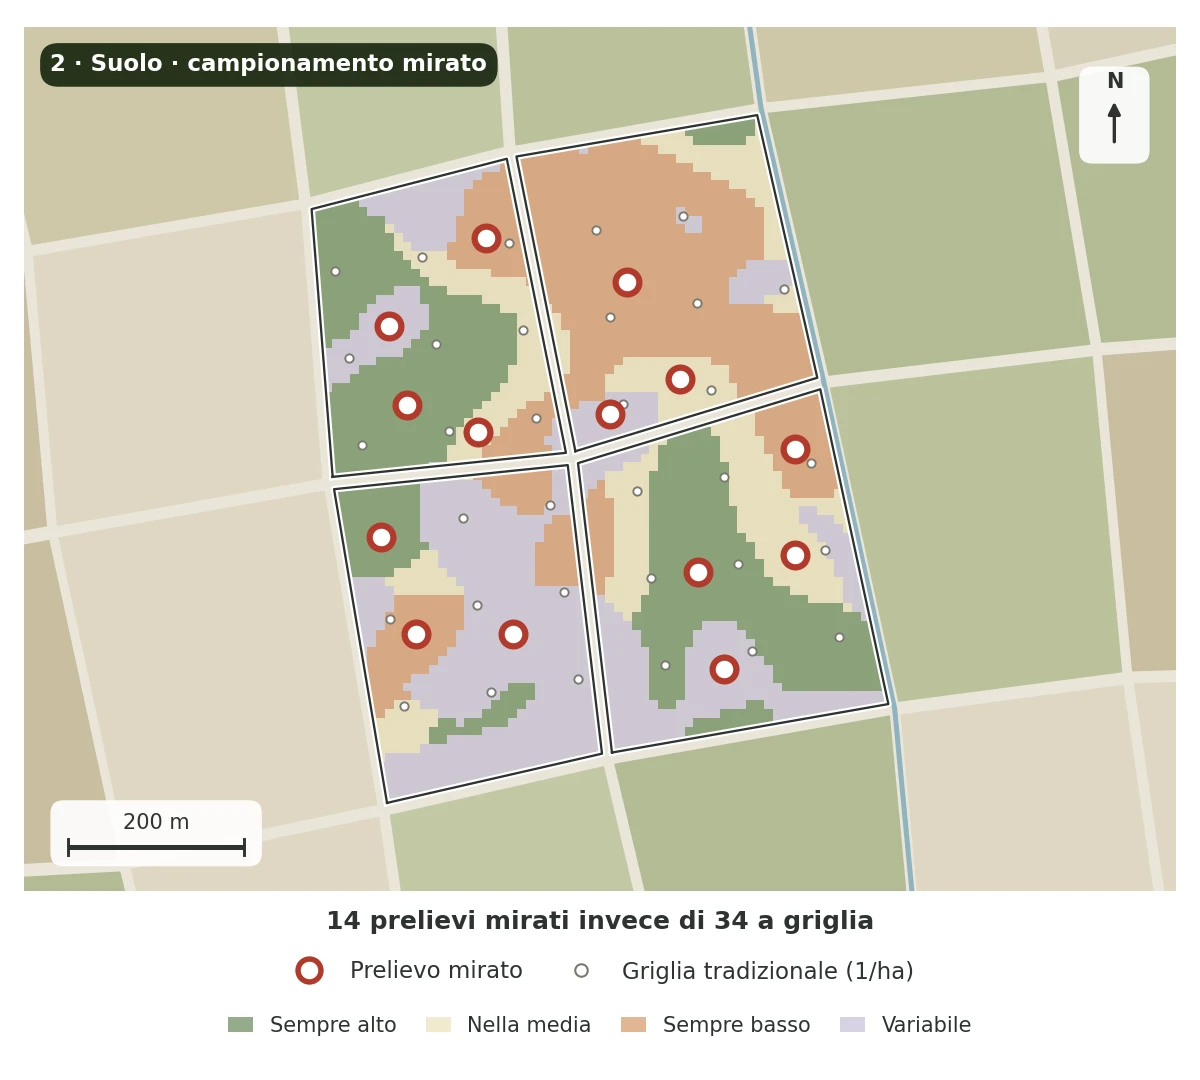
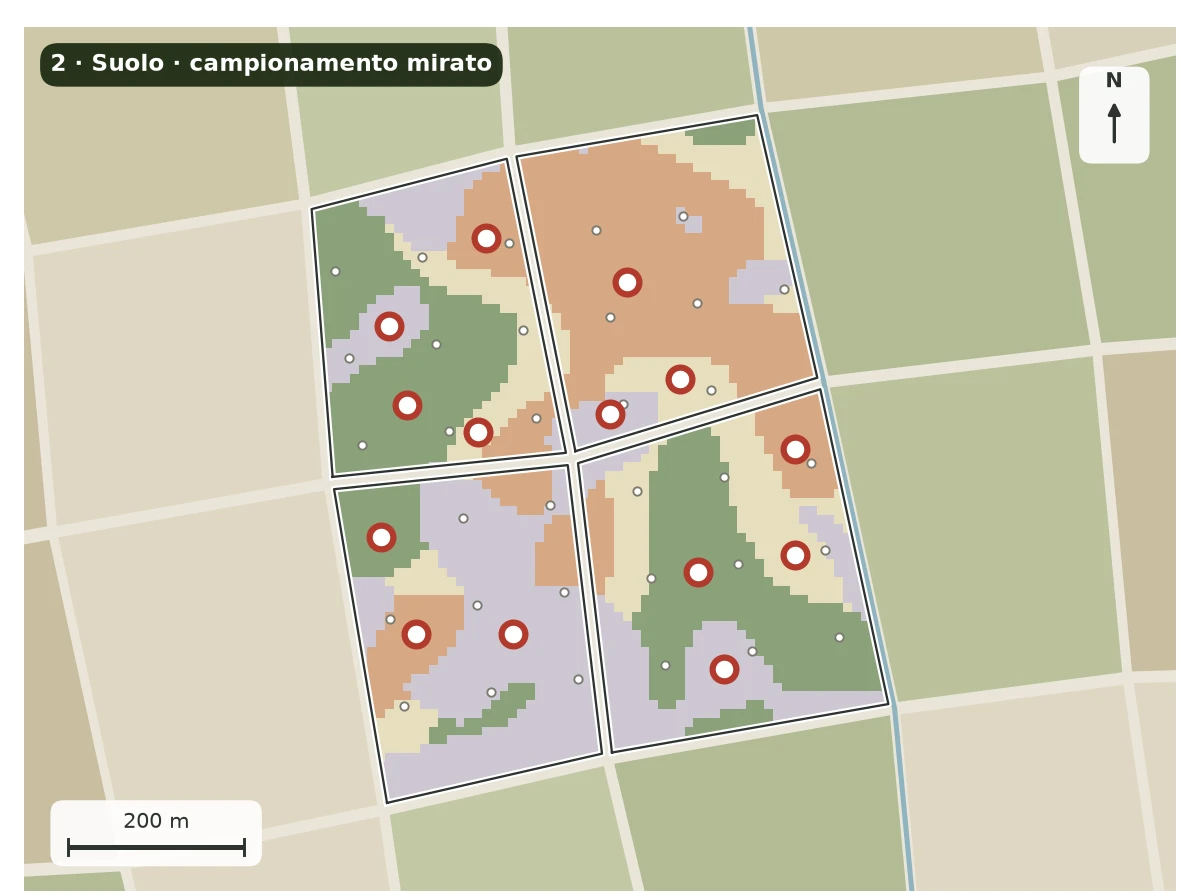
Scorpora le legende delle mappe dalle immagini in testo interattivo
Le mappe generate da scripts/synthetic_maps.py contenevano legenda,
didascalia e colorbar come pixel disegnati nella parte bassa
dell'immagine. Ora lo script ritaglia quella fascia (LEGEND_BAND) e
salva solo la mappa vera e propria, invariata pixel per pixel
(colori, contorni, badge, scala, freccia nord).

I contenuti delle legende sono stati spostati in MapCarousel.tsx come
dati per ogni passo, con un componente Legend che li renderizza come
chip HTML interattivi (hover/tap) accanto all'immagine, invece che
come testo non selezionabile dentro il PNG.

Claude-Session: https://claude.ai/code/session_01APuUi5GTqQEEWz5scawZC7

diff --git a/src/components/MapCarousel.tsx b/src/components/MapCarousel.tsx
@@ -2,7 +2,19 @@ import React, { useState } from 'react';
 import { motion, AnimatePresence } from 'motion/react';
 import { ChevronLeft, ChevronRight, Satellite, TestTube, Activity, Navigation, Droplets } from 'lucide-react';
 
+// Colori delle 4 classi di variabilità storica, condivisi da più mappe/legende
+// (stessi valori usati in scripts/synthetic_maps.py, variabile stab_cols).
+const STABILITY_SWATCHES = [
+  { color: '#3F6B2E', label: 'Sempre alto' },
+  { color: '#E6D9A8', label: 'Nella media' },
+  { color: '#C9793F', label: 'Sempre basso' },
+  { color: '#B7AFCF', label: 'Variabile' },
+];
+
 // Mappe di esempio generate da scripts/synthetic_maps.py (campi immaginari, nessun dato reale).
+// Le immagini contengono solo la mappa (colori, contorni, badge, scala, freccia nord): la legenda,
+// che prima era testo disegnato dentro l'immagine, ora vive qui come dati e viene renderizzata
+// come HTML interattivo (vedi componente Legend più sotto).
 const STEPS = [
   {
     src: '/mappe/mappa-1-storico.webp',
@@ -11,6 +23,7 @@ const STEPS = [
     short: 'Storico',
     title: 'Variabilità storica',
     desc: 'Più anni di immagini satellitari rivelano le zone dove la coltura cresce sempre bene, sempre meno, o cambia di anno in anno.',
+    legend: { kind: 'swatches' as const, items: STABILITY_SWATCHES },
   },
   {
     src: '/mappe/mappa-2-campionamento.webp',
@@ -19,6 +32,15 @@ const STEPS = [
     short: 'Campionamento',
     title: 'Campionamento mirato del suolo',
     desc: 'Le zone guidano i prelievi: un campione nel punto più rappresentativo di ogni zona, invece di una griglia fitta. Meno analisi, informazioni più utili.',
+    legend: {
+      kind: 'sampling' as const,
+      caption: '14 prelievi mirati invece di 34 a griglia',
+      markers: [
+        { style: 'ring-thick' as const, color: '#B23A2B', label: 'Prelievo mirato' },
+        { style: 'ring-thin' as const, color: '#7A7A70', label: 'Griglia tradizionale (1/ha)' },
+      ],
+      swatches: STABILITY_SWATCHES,
+    },
   },
   {
     src: '/mappe/mappa-3-stagione.webp',
@@ -27,6 +49,15 @@ const STEPS = [
     short: 'Stagione',
     title: 'Monitoraggio in stagione',
     desc: 'Durante la stagione il satellite confronta il vigore attuale con lo storico e segnala le aree che si comportano in modo anomalo.',
+    legend: {
+      kind: 'scale' as const,
+      title: 'Vigore attuale (NDVI) e aree anomale',
+      stops: ['#B98E5A', '#E6D39A', '#A9C77E', '#4E8A3E', '#15401F'],
+      low: 'Basso',
+      high: 'Alto',
+      ticks: ['0.65', '0.70', '0.75', '0.80'],
+      extra: [{ style: 'dashed-line' as const, color: '#B23A2B', label: 'Area da verificare' }],
+    },
   },
   {
     src: '/mappe/mappa-4-volo.webp',
@@ -35,6 +66,15 @@ const STEPS = [
     short: 'Volo',
     title: 'Volo mirato del drone',
     desc: 'Il drone sorvola solo le aree da verificare: meno tempo in campo e immagini dettagliate proprio dove servono.',
+    legend: {
+      kind: 'mixed' as const,
+      items: [
+        { style: 'patch' as const, color: '#B23A2B', fill: '#E7B7AE', label: 'Area da sorvolare' },
+        { style: 'line' as const, color: '#15240D', label: 'Passate di rilievo' },
+        { style: 'dashed-line' as const, color: '#15240D', label: 'Trasferimento' },
+        { style: 'marker-square' as const, color: '#15240D', label: 'Decollo' },
+      ],
+    },
   },
   {
     src: '/mappe/mappa-5-biostimolanti.webp',
@@ -43,8 +83,130 @@ const STEPS = [
     short: 'Biostimolanti',
     title: 'Distribuzione di biostimolanti a rateo variabile',
     desc: 'Dai dati del drone nasce la mappa di distribuzione dei biostimolanti: più prodotto dove la coltura soffre, meno dove sta già bene.',
+    legend: {
+      kind: 'swatches' as const,
+      items: [
+        { color: '#9DBB86', label: 'Dose −25%' },
+        { color: '#EFE3BF', label: 'Dose standard' },
+        { color: '#DE9A4C', label: 'Dose +25%' },
+        { color: '#A33A1F', label: 'Dose +50%' },
+      ],
+    },
   },
 ];
+
+/** Chip di legenda con un piccolo campione visivo (colore, linea, marker...) + etichetta. */
+const LegendChip: React.FC<{ swatch: React.ReactNode; label: string }> = ({ swatch, label }) => (
+  <motion.span
+    whileHover={{ scale: 1.06, y: -1 }}
+    whileTap={{ scale: 0.97 }}
+    className="inline-flex items-center gap-1.5 rounded-full border border-gray-200 bg-white px-2.5 py-1 text-xs text-gray-700 shadow-sm cursor-default"
+  >
+    {swatch}
+    {label}
+  </motion.span>
+);
+
+const ColorSwatch: React.FC<{ color: string }> = ({ color }) => (
+  <span className="h-2.5 w-2.5 flex-shrink-0 rounded-sm" style={{ backgroundColor: color }} />
+);
+
+const RingMarker: React.FC<{ color: string; thick?: boolean }> = ({ color, thick }) => (
+  <span
+    className="h-2.5 w-2.5 flex-shrink-0 rounded-full bg-white"
+    style={{ border: `${thick ? 2 : 1.5}px solid ${color}` }}
+  />
+);
+
+const LineSwatch: React.FC<{ color: string; dashed?: boolean }> = ({ color, dashed }) =>
+  dashed ? (
+    <span className="w-4 flex-shrink-0 border-t-2 border-dashed" style={{ borderColor: color }} />
+  ) : (
+    <span className="h-0.5 w-4 flex-shrink-0 rounded-full" style={{ backgroundColor: color }} />
+  );
+
+const PatchSwatch: React.FC<{ color: string; fill: string }> = ({ color, fill }) => (
+  <span className="h-2.5 w-3.5 flex-shrink-0 rounded-sm" style={{ backgroundColor: fill, border: `1.5px solid ${color}` }} />
+);
+
+const SquareMarker: React.FC<{ color: string }> = ({ color }) => (
+  <span className="h-2.5 w-2.5 flex-shrink-0 rounded-[2px] ring-1 ring-gray-300" style={{ backgroundColor: color, border: '1.5px solid white' }} />
+);
+
+type StepLegend = (typeof STEPS)[number]['legend'];
+
+function Legend({ legend }: { legend: StepLegend }) {
+  if (legend.kind === 'swatches') {
+    return (
+      <div className="flex flex-wrap gap-2">
+        {legend.items.map((item) => (
+          <LegendChip key={item.label} swatch={<ColorSwatch color={item.color} />} label={item.label} />
+        ))}
+      </div>
+    );
+  }
+
+  if (legend.kind === 'sampling') {
+    return (
+      <div>
+        <p className="text-sm font-semibold text-brand-dark mb-2">{legend.caption}</p>
+        <div className="flex flex-wrap gap-2 mb-2">
+          {legend.markers.map((m) => (
+            <LegendChip key={m.label} swatch={<RingMarker color={m.color} thick={m.style === 'ring-thick'} />} label={m.label} />
+          ))}
+        </div>
+        <div className="flex flex-wrap gap-2">
+          {legend.swatches.map((item) => (
+            <LegendChip key={item.label} swatch={<ColorSwatch color={item.color} />} label={item.label} />
+          ))}
+        </div>
+      </div>
+    );
+  }
+
+  if (legend.kind === 'scale') {
+    return (
+      <div>
+        <p className="text-xs font-semibold uppercase tracking-wide text-gray-500 mb-2">{legend.title}</p>
+        <div className="flex items-center gap-2">
+          <span className="text-xs text-gray-500">{legend.low}</span>
+          <div
+            className="h-2.5 flex-1 rounded-full"
+            style={{ background: `linear-gradient(to right, ${legend.stops.join(', ')})` }}
+          />
+          <span className="text-xs text-gray-500">{legend.high}</span>
+        </div>
+        <div className="flex justify-between mt-1 px-6">
+          {legend.ticks.map((t) => (
+            <span key={t} className="text-[11px] text-gray-400">{t}</span>
+          ))}
+        </div>
+        <div className="flex flex-wrap gap-2 mt-3">
+          {legend.extra.map((item) => (
+            <LegendChip key={item.label} swatch={<LineSwatch color={item.color} dashed />} label={item.label} />
+          ))}
+        </div>
+      </div>
+    );
+  }
+
+  return (
+    <div className="flex flex-wrap gap-2">
+      {legend.items.map((item) => (
+        <LegendChip
+          key={item.label}
+          swatch={
+            item.style === 'patch' ? <PatchSwatch color={item.color} fill={item.fill!} />
+            : item.style === 'dashed-line' ? <LineSwatch color={item.color} dashed />
+            : item.style === 'marker-square' ? <SquareMarker color={item.color} />
+            : <LineSwatch color={item.color} />
+          }
+          label={item.label}
+        />
+      ))}
+    </div>
+  );
+}
 
 export default function MapCarousel() {
   const [[index, direction], setState] = useState<[number, number]>([0, 0]);
@@ -98,7 +260,7 @@ export default function MapCarousel() {
       <div className="grid grid-cols-1 lg:grid-cols-12 gap-6 lg:gap-10 items-center">
         {/* Mappa */}
         <div className="lg:col-span-7 relative overflow-hidden rounded-2xl bg-white shadow-sm">
-          <div className="aspect-[1200/1080]" />
+          <div className="aspect-[1200/896]" />
           <AnimatePresence initial={false} custom={direction}>
             <motion.img
               key={step.src}
@@ -147,7 +309,8 @@ export default function MapCarousel() {
                 </span>
               </div>
               <h4 className="text-2xl md:text-3xl font-heading text-brand-dark mb-3">{step.title}</h4>
-              <p className="text-gray-600 leading-relaxed">{step.desc}</p>
+              <p className="text-gray-600 leading-relaxed mb-4">{step.desc}</p>
+              <Legend legend={step.legend} />
             </motion.div>
           </AnimatePresence>
 

diff --git a/scripts/synthetic_maps.py b/scripts/synthetic_maps.py
@@ -32,6 +32,7 @@ rng = np.random.default_rng(11)
 
 TEXT = "#2D3330"
 GROUND = "#E9E5D9"
+LEGEND_BAND = 0.17  # frazione inferiore della figura riservata a legenda/didascalia/colorbar (vedi new_map)
 plt.rcParams.update({"font.family": "DejaVu Sans", "font.size": 12, "text.color": TEXT})
 
 # ---------------------------------------------------------------- paesaggio (1 unità = 10 m)
@@ -143,7 +144,7 @@ def badge(ax, text):
 
 def new_map(tag):
     fig = plt.figure(figsize=(8, 7.2))
-    ax = fig.add_axes([0.02, 0.17, 0.96, 0.81])
+    ax = fig.add_axes([0.02, LEGEND_BAND, 0.96, 0.98 - LEGEND_BAND])
     landscape(ax)
     ax.set_xlim(VIEW[0], VIEW[1]); ax.set_ylim(VIEW[2], VIEW[3]); ax.set_aspect("equal")
     ax.set_xticks([]); ax.set_yticks([])
@@ -181,11 +182,19 @@ def target_outline(ax, lw, color, ls="-", halo=False):
 
 
 def save(fig, name):
+    # Ritaglia la fascia inferiore della figura (dove prima stavano legenda/didascalia/
+    # colorbar, sotto l'asse della mappa che parte a y=LEGEND_BAND): la mappa vera e
+    # propria (colori, contorni, badge, scala, freccia nord) resta invariata pixel per
+    # pixel; il testo della legenda ora vive solo come componente React accanto all'immagine.
     from PIL import Image
     buf = io.BytesIO()
     fig.savefig(buf, format="png", dpi=150, facecolor="white")
     plt.close(fig)
-    Image.open(buf).convert("RGB").save(OUT / f"{name}.webp", "WEBP", quality=90)
+    img = Image.open(buf).convert("RGB")
+    w, h = img.size
+    crop_h = round(h * (1 - LEGEND_BAND))
+    img = img.crop((0, 0, w, crop_h))
+    img.save(OUT / f"{name}.webp", "WEBP", quality=90)
 
 
 def gfield(shape, sigma, seed, m):
@@ -290,8 +299,8 @@ im = show(ax, ndvi, mask, cmap=ndvi_cmap, vmin=0.62, vmax=0.82)
 target_outline(ax, 2, "#B23A2B", "--", halo=True)
 outline(ax); decorations(ax)
 colorbar(fig, im, "Vigore attuale (NDVI) e aree anomale", "Basso", "Alto", [0.65, 0.70, 0.75, 0.80], "{:.2f}")
-ax.plot([], [], color="#B23A2B", ls="--", lw=2, label="Area da verificare")
-ax.legend(loc="upper right", bbox_to_anchor=(0.9, 0.995), frameon=True, framealpha=0.92, edgecolor="none", fontsize=10)
+# "Area da verificare" (contorno tratteggiato rosso) ora è spiegata nella legenda React, non più
+# in un riquadro sovrapposto alla mappa.
 save(fig, "mappa-3-stagione")
 
 # ---------------------------------------------------------------- mappa 3: piano di volo
